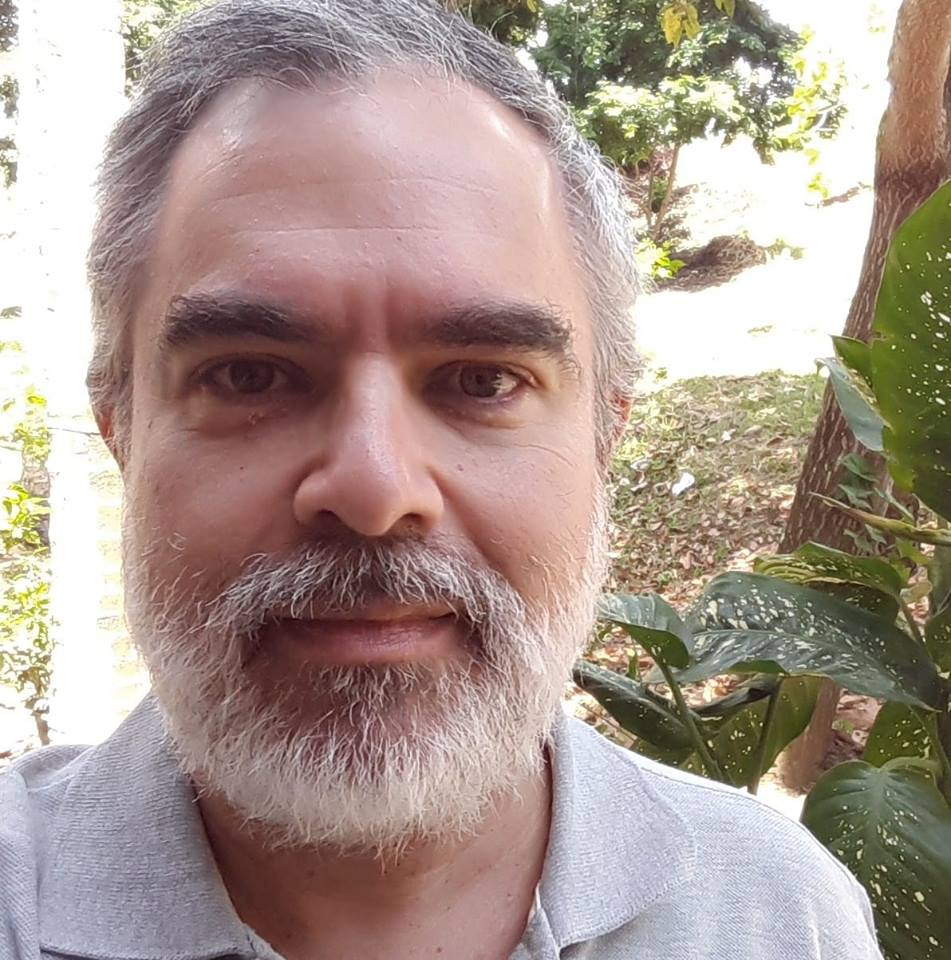
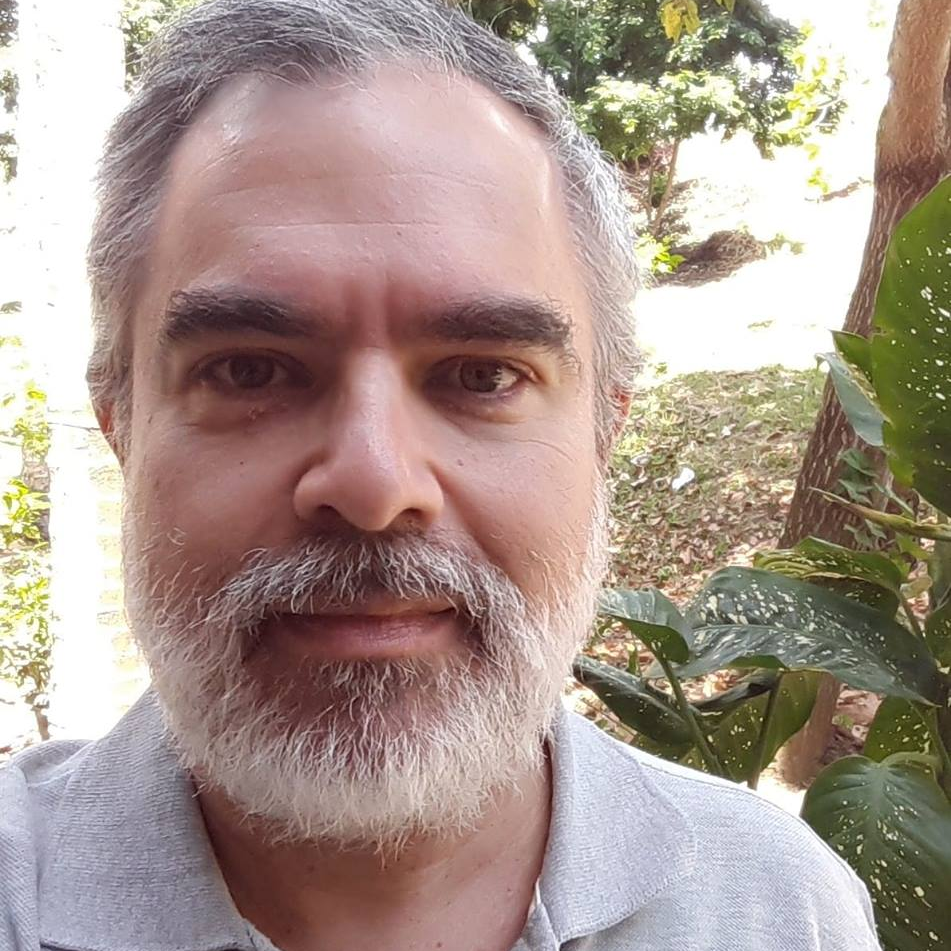
[add]: Cropped photos

diff --git a/index.html b/index.html
@@ -164,7 +164,7 @@
 						<div class="participante">
 							<div class="imagem">
 								<img
-									src="./assets/img/paulo_barbosa.jpg"
+									src="./assets/img/paulo_barbosa.png"
 									alt=""
 								/>
 							</div>
@@ -220,7 +220,7 @@
 						<div class="participante">
 							<div class="imagem">
 								<img
-									src="./assets/img/marcelo_honda.png"
+									src="./assets/img/honda.png"
 									alt=""
 								/>
 							</div>
@@ -370,7 +370,7 @@
 						<!-- Adriana Emidio -->
 						<div class="participante">
 							<div class="imagem">
-								<img src="./assets/img/adriana.jpeg" alt="" />
+								<img src="./assets/img/adriana.png" alt="" />
 							</div>
 							<div class="content">
 								<h5>
@@ -395,7 +395,7 @@
 						<!-- Danielly Almeida -->
 						<div class="participante">
 							<div class="imagem">
-								<img src="./assets/img/danielly.jpg" alt="" />
+								<img src="./assets/img/danielly.png" alt="" />
 							</div>
 							<div class="content">
 								<h5>

diff --git a/about.html b/about.html
@@ -66,7 +66,7 @@
 						<div class="participante">
 							<div class="imagem">
 								<img
-									src="./assets/img/paulo_barbosa.jpg"
+									src="./assets/img/paulo_barbosa.png"
 									alt=""
 								/>
 							</div>
@@ -145,7 +145,7 @@
 						<div class="participante">
 							<div class="imagem">
 								<img
-									src="./assets/img/marcelo_honda.png"
+									src="./assets/img/honda.png"
 									alt=""
 								/>
 							</div>
@@ -309,7 +309,7 @@
 						<!-- Adriana Emidio -->
 						<div class="participante">
 							<div class="imagem">
-								<img src="./assets/img/adriana.jpeg" alt="" />
+								<img src="./assets/img/adriana.png" alt="" />
 							</div>
 							<div class="content">
 								<h5>
@@ -343,7 +343,7 @@
 						<!-- Danielly Almeida -->
 						<div class="participante">
 							<div class="imagem">
-								<img src="./assets/img/danielly.jpg" alt="" />
+								<img src="./assets/img/danielly.png" alt="" />
 							</div>
 							<div class="content">
 								<h5>
